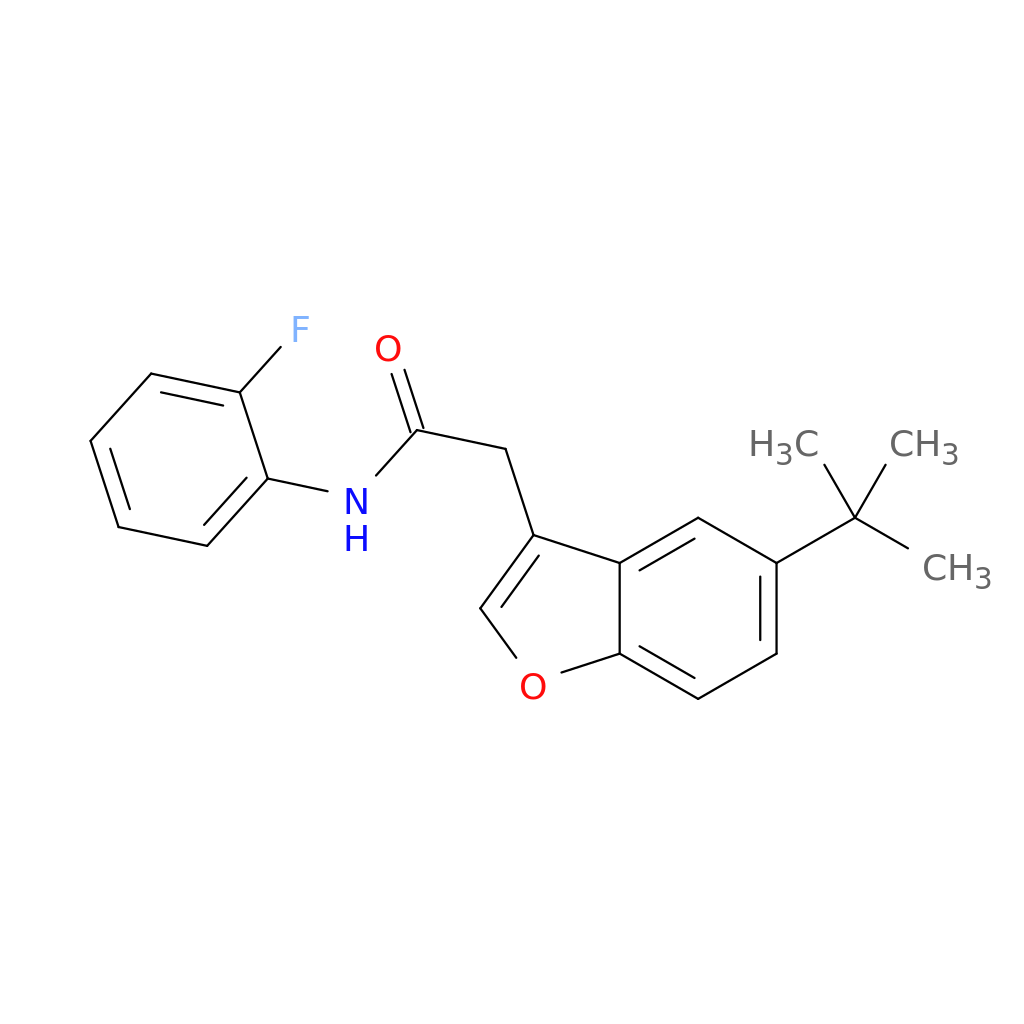
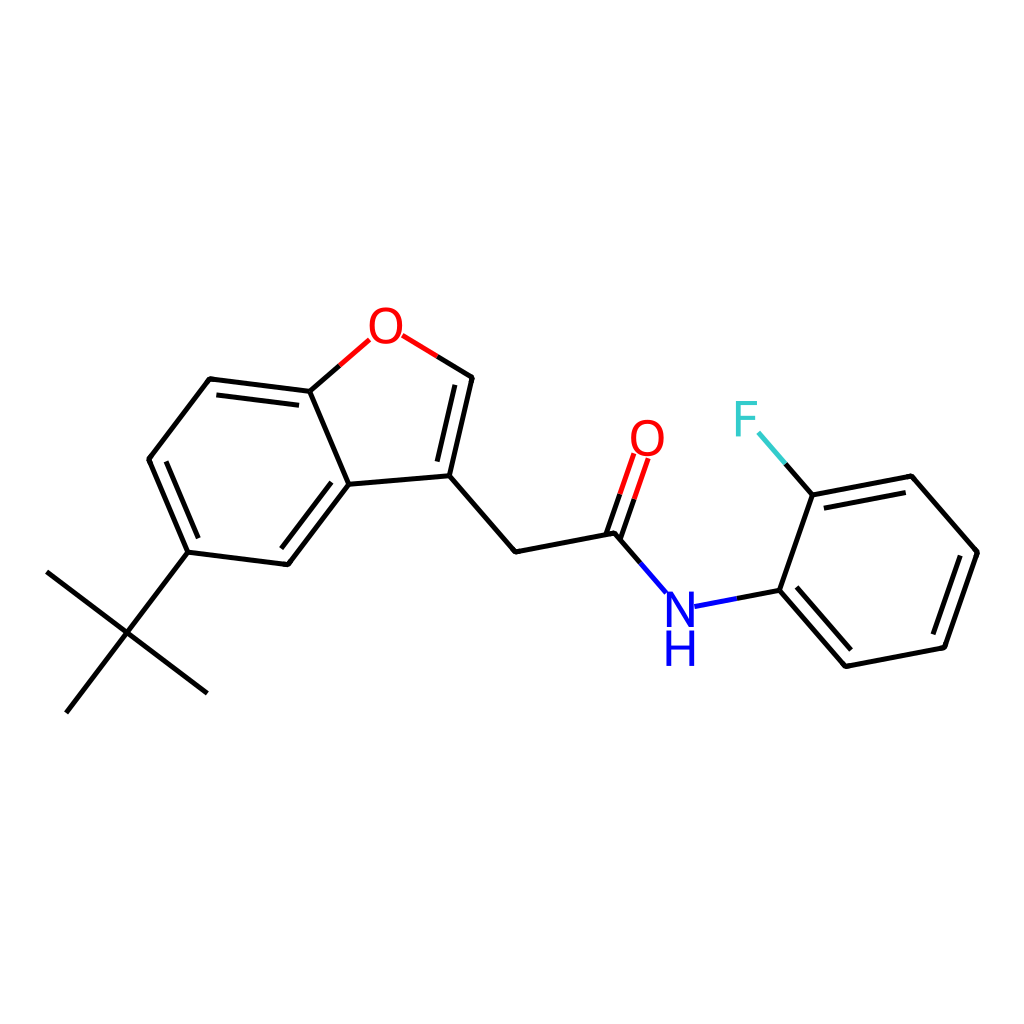
Update examples

diff --git a/examples/smi2img.py b/examples/smi2img.py
@@ -1,0 +1,21 @@
+from rdkit import Chem
+from rdkit.Chem import Draw
+
+if __name__ == "__main__":
+    with open("mols.smi") as f:
+        smis = f.readlines()
+
+    smis = [smi.rstrip() for smi in smis]
+
+    opts = Draw.rdMolDraw2D.MolDrawOptions()
+    opts.bondLineWidth = 5
+    opts.minFontSize = 50
+
+    for (idx, smi) in enumerate(smis):
+        mol = Chem.MolFromSmiles(smi)
+        Draw.MolToFile(
+            mol=mol,
+            filename=f"sample_{idx}.png",
+            size=(1024, 1024),
+            options=opts,
+        )

diff --git a/py_infer/Img2Mol_miniCDDD.py b/py_infer/Img2Mol_miniCDDD.py
@@ -23,7 +23,7 @@ def _img2mol_preprocess(
     img_file: str,
 ) -> np.array:
     img2mol = Img2MolInference()
-    imgs = img2mol.read_image_to_tensor(args.image).clone().detach().numpy()
+    imgs = img2mol.read_image_to_tensor(img_file).clone().detach().numpy()
 
     return imgs
 
